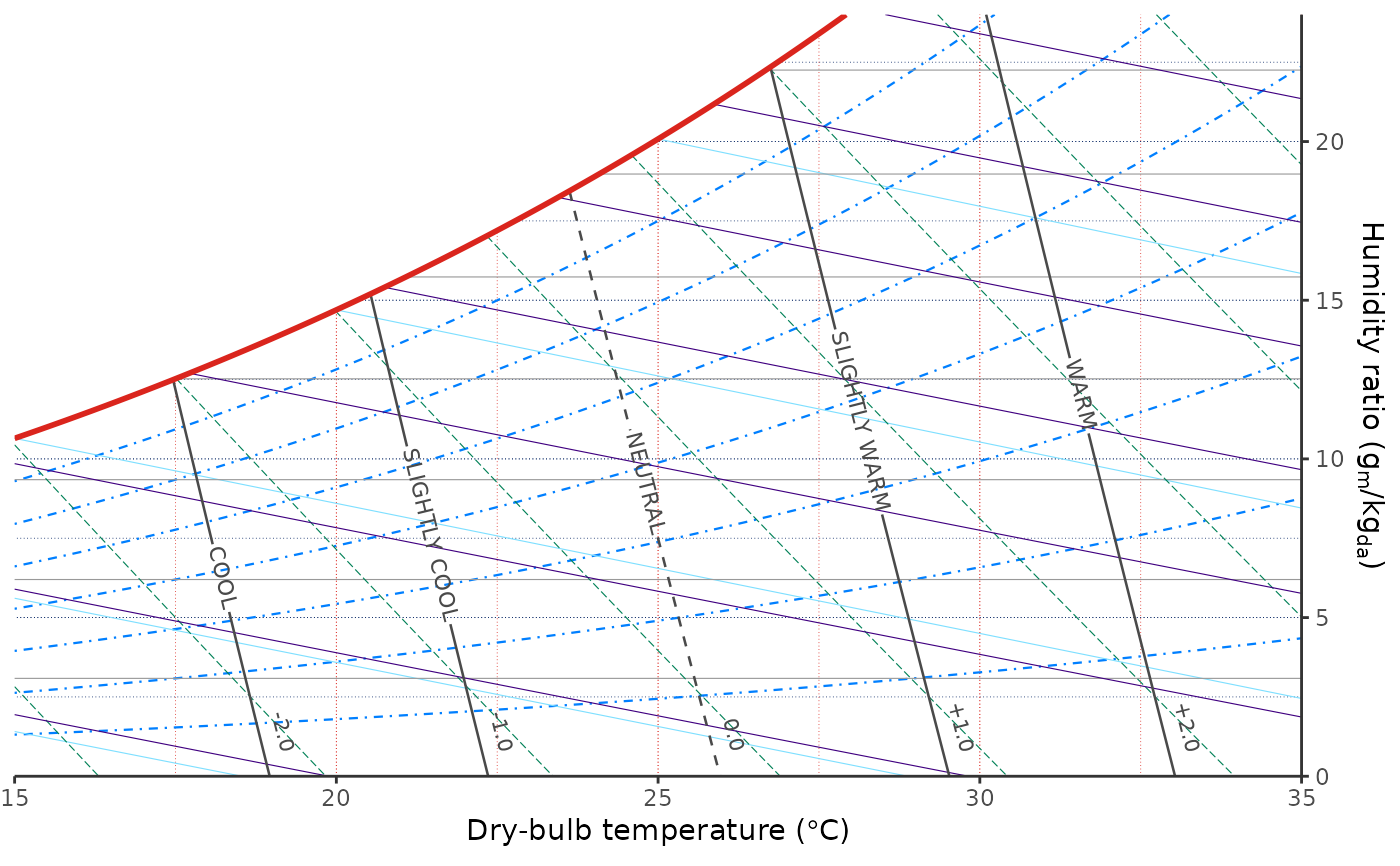
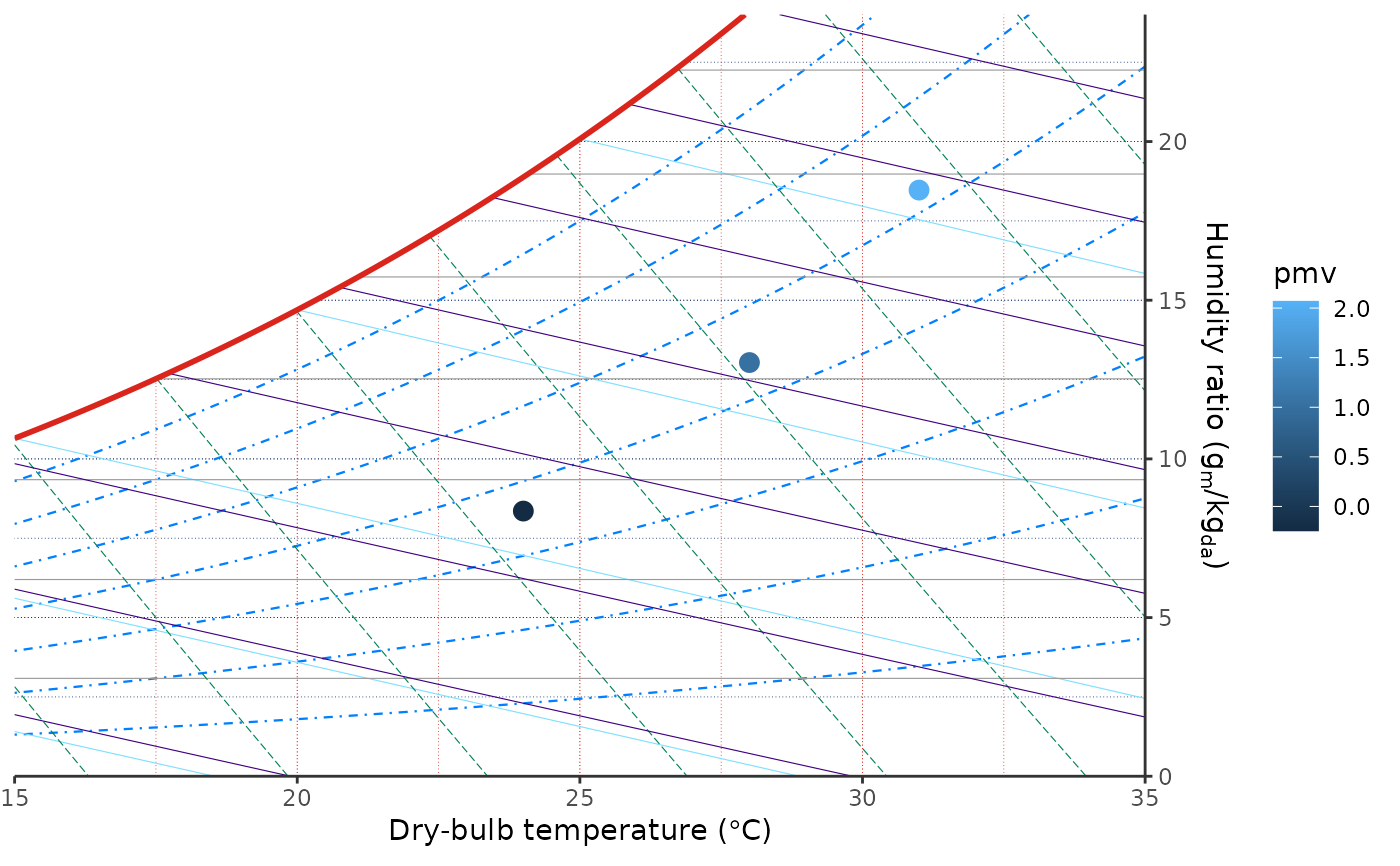
Deploying to gh-pages from @ hongyuanjia/ggpsychro@2dfbb959036aaf45d919129e0132a20ed1819e26 🚀

diff --git a/reference/geom_comfort_overlay.html b/reference/geom_comfort_overlay.html
@@ -442,12 +442,11 @@ give the geom as <code>"point"</code>.</p></li>
 <span class="r-in"><span>    <span class="fu"><a href="scale_fill_comfort_pmv.html">scale_fill_comfort_pmv</a></span><span class="op">(</span>name <span class="op">=</span> <span class="st">"PMV"</span><span class="op">)</span></span></span>
 <span class="r-plt img"><img src="geom_comfort_overlay-1.png" alt="" width="700" height="433"></span>
 <span class="r-in"><span></span></span>
-<span class="r-in"><span><span class="co"># Draw labelled PMV contour lines.</span></span></span>
+<span class="r-in"><span><span class="co"># Draw PMV contour lines.</span></span></span>
 <span class="r-in"><span><span class="fu"><a href="ggpsychro.html">ggpsychro</a></span><span class="op">(</span>tdb_lim <span class="op">=</span> <span class="fu"><a href="https://rdrr.io/r/base/c.html" class="external-link">c</a></span><span class="op">(</span><span class="fl">15</span>, <span class="fl">35</span><span class="op">)</span>, hum_lim <span class="op">=</span> <span class="fu"><a href="https://rdrr.io/r/base/c.html" class="external-link">c</a></span><span class="op">(</span><span class="fl">0</span>, <span class="fl">24</span><span class="op">)</span><span class="op">)</span> <span class="op">+</span></span></span>
 <span class="r-in"><span>    <span class="fu">geom_comfort_contour</span><span class="op">(</span></span></span>
 <span class="r-in"><span>        breaks <span class="op">=</span> <span class="fu"><a href="https://rdrr.io/r/base/c.html" class="external-link">c</a></span><span class="op">(</span><span class="op">-</span><span class="fl">1</span>, <span class="fl">0</span>, <span class="fl">1</span><span class="op">)</span>,</span></span>
-<span class="r-in"><span>        label <span class="op">=</span> <span class="cn">TRUE</span>,</span></span>
-<span class="r-in"><span>        n <span class="op">=</span> <span class="fl">80</span></span></span>
+<span class="r-in"><span>        n <span class="op">=</span> <span class="fl">50</span></span></span>
 <span class="r-in"><span>    <span class="op">)</span></span></span>
 <span class="r-plt img"><img src="geom_comfort_overlay-2.png" alt="" width="700" height="433"></span>
 <span class="r-in"><span></span></span>
@@ -460,29 +459,6 @@ give the geom as <code>"point"</code>.</p></li>
 <span class="r-in"><span>    <span class="op">)</span></span></span>
 <span class="r-plt img"><img src="geom_comfort_overlay-3.png" alt="" width="700" height="433"></span>
 <span class="r-in"><span></span></span>
-<span class="r-in"><span><span class="co"># Draw PMV curves and thermal sensation labels.</span></span></span>
-<span class="r-in"><span><span class="fu"><a href="ggpsychro.html">ggpsychro</a></span><span class="op">(</span>tdb_lim <span class="op">=</span> <span class="fu"><a href="https://rdrr.io/r/base/c.html" class="external-link">c</a></span><span class="op">(</span><span class="fl">15</span>, <span class="fl">35</span><span class="op">)</span>, hum_lim <span class="op">=</span> <span class="fu"><a href="https://rdrr.io/r/base/c.html" class="external-link">c</a></span><span class="op">(</span><span class="fl">0</span>, <span class="fl">24</span><span class="op">)</span><span class="op">)</span> <span class="op">+</span></span></span>
-<span class="r-in"><span>    <span class="fu">geom_comfort_pmv_lines</span><span class="op">(</span>levels <span class="op">=</span> <span class="fu"><a href="https://rdrr.io/r/base/seq.html" class="external-link">seq</a></span><span class="op">(</span><span class="op">-</span><span class="fl">2</span>, <span class="fl">2</span>, by <span class="op">=</span> <span class="fl">1</span><span class="op">)</span>, n <span class="op">=</span> <span class="fl">100</span><span class="op">)</span></span></span>
-<span class="r-plt img"><img src="geom_comfort_overlay-4.png" alt="" width="700" height="433"></span>
-<span class="r-in"><span></span></span>
-<span class="r-in"><span><span class="co"># Draw a PMV-based comfort standard zone.</span></span></span>
-<span class="r-in"><span><span class="fu"><a href="ggpsychro.html">ggpsychro</a></span><span class="op">(</span>tdb_lim <span class="op">=</span> <span class="fu"><a href="https://rdrr.io/r/base/c.html" class="external-link">c</a></span><span class="op">(</span><span class="fl">15</span>, <span class="fl">35</span><span class="op">)</span>, hum_lim <span class="op">=</span> <span class="fu"><a href="https://rdrr.io/r/base/c.html" class="external-link">c</a></span><span class="op">(</span><span class="fl">0</span>, <span class="fl">24</span><span class="op">)</span><span class="op">)</span> <span class="op">+</span></span></span>
-<span class="r-in"><span>    <span class="fu">geom_comfort_standard_zone</span><span class="op">(</span></span></span>
-<span class="r-in"><span>        standard <span class="op">=</span> <span class="fu"><a href="comfort_standard_ashrae55_2017.html">comfort_standard_ashrae55_2017</a></span><span class="op">(</span><span class="op">)</span>,</span></span>
-<span class="r-in"><span>        n <span class="op">=</span> <span class="fl">80</span></span></span>
-<span class="r-in"><span>    <span class="op">)</span></span></span>
-<span class="r-plt img"><img src="geom_comfort_overlay-5.png" alt="" width="700" height="433"></span>
-<span class="r-in"><span></span></span>
-<span class="r-in"><span><span class="co"># Draw heat-index categories on hot conditions.</span></span></span>
-<span class="r-in"><span><span class="fu"><a href="ggpsychro.html">ggpsychro</a></span><span class="op">(</span>tdb_lim <span class="op">=</span> <span class="fu"><a href="https://rdrr.io/r/base/c.html" class="external-link">c</a></span><span class="op">(</span><span class="fl">25</span>, <span class="fl">45</span><span class="op">)</span>, hum_lim <span class="op">=</span> <span class="fu"><a href="https://rdrr.io/r/base/c.html" class="external-link">c</a></span><span class="op">(</span><span class="fl">0</span>, <span class="fl">32</span><span class="op">)</span><span class="op">)</span> <span class="op">+</span></span></span>
-<span class="r-in"><span>    <span class="fu">geom_comfort_heat_index</span><span class="op">(</span>n <span class="op">=</span> <span class="fu"><a href="https://rdrr.io/r/base/c.html" class="external-link">c</a></span><span class="op">(</span><span class="fl">55</span>, <span class="fl">35</span><span class="op">)</span>, show_labels <span class="op">=</span> <span class="cn">FALSE</span><span class="op">)</span></span></span>
-<span class="r-plt img"><img src="geom_comfort_overlay-6.png" alt="" width="700" height="433"></span>
-<span class="r-in"><span></span></span>
-<span class="r-in"><span><span class="co"># Draw Givoni bioclimatic strategy zones.</span></span></span>
-<span class="r-in"><span><span class="fu"><a href="ggpsychro.html">ggpsychro</a></span><span class="op">(</span>tdb_lim <span class="op">=</span> <span class="fu"><a href="https://rdrr.io/r/base/c.html" class="external-link">c</a></span><span class="op">(</span><span class="fl">5</span>, <span class="fl">45</span><span class="op">)</span>, hum_lim <span class="op">=</span> <span class="fu"><a href="https://rdrr.io/r/base/c.html" class="external-link">c</a></span><span class="op">(</span><span class="fl">0</span>, <span class="fl">30</span><span class="op">)</span><span class="op">)</span> <span class="op">+</span></span></span>
-<span class="r-in"><span>    <span class="fu">geom_comfort_givoni</span><span class="op">(</span>show_labels <span class="op">=</span> <span class="cn">FALSE</span><span class="op">)</span></span></span>
-<span class="r-plt img"><img src="geom_comfort_overlay-7.png" alt="" width="700" height="433"></span>
-<span class="r-in"><span></span></span>
 <span class="r-in"><span><span class="co"># Evaluate PMV at supplied state points.</span></span></span>
 <span class="r-in"><span><span class="va">states</span> <span class="op">&lt;-</span> <span class="fu"><a href="https://rdrr.io/r/base/data.frame.html" class="external-link">data.frame</a></span><span class="op">(</span></span></span>
 <span class="r-in"><span>    tdb <span class="op">=</span> <span class="fu"><a href="https://rdrr.io/r/base/c.html" class="external-link">c</a></span><span class="op">(</span><span class="fl">24</span>, <span class="fl">28</span>, <span class="fl">31</span><span class="op">)</span>,</span></span>
@@ -493,7 +469,7 @@ give the geom as <code>"point"</code>.</p></li>
 <span class="r-in"><span>        <span class="fu">aes</span><span class="op">(</span>tdb <span class="op">=</span> <span class="va">tdb</span>, relhum <span class="op">=</span> <span class="va">relhum</span>, colour <span class="op">=</span> <span class="fu">after_stat</span><span class="op">(</span><span class="va">pmv</span><span class="op">)</span><span class="op">)</span>,</span></span>
 <span class="r-in"><span>        size <span class="op">=</span> <span class="fl">3</span></span></span>
 <span class="r-in"><span>    <span class="op">)</span></span></span>
-<span class="r-plt img"><img src="geom_comfort_overlay-8.png" alt="" width="700" height="433"></span>
+<span class="r-plt img"><img src="geom_comfort_overlay-4.png" alt="" width="700" height="433"></span>
 <span class="r-in"><span></span></span>
 </code></pre></div>
     </div>

diff --git a/reference/comfort_standard_ashrae55_2017.html b/reference/comfort_standard_ashrae55_2017.html
@@ -111,22 +111,6 @@ mean outdoor temperature and produce operative-temperature bands.</p>
 <span class="r-out co"><span class="r-pr">#&gt;</span> attr(,"class")</span>
 <span class="r-out co"><span class="r-pr">#&gt;</span> [1] "PsyComfortStandard" "list"              </span>
 <span class="r-in"><span></span></span>
-<span class="r-in"><span><span class="co"># Draw the ASHRAE 55 comfort zone.</span></span></span>
-<span class="r-in"><span><span class="fu"><a href="ggpsychro.html">ggpsychro</a></span><span class="op">(</span>tdb_lim <span class="op">=</span> <span class="fu"><a href="https://rdrr.io/r/base/c.html" class="external-link">c</a></span><span class="op">(</span><span class="fl">15</span>, <span class="fl">35</span><span class="op">)</span>, hum_lim <span class="op">=</span> <span class="fu"><a href="https://rdrr.io/r/base/c.html" class="external-link">c</a></span><span class="op">(</span><span class="fl">0</span>, <span class="fl">24</span><span class="op">)</span><span class="op">)</span> <span class="op">+</span></span></span>
-<span class="r-in"><span>    <span class="fu"><a href="geom_comfort_overlay.html">geom_comfort_standard_zone</a></span><span class="op">(</span></span></span>
-<span class="r-in"><span>        standard <span class="op">=</span> <span class="fu">comfort_standard_ashrae55_2017</span><span class="op">(</span><span class="op">)</span>,</span></span>
-<span class="r-in"><span>        n <span class="op">=</span> <span class="fl">80</span></span></span>
-<span class="r-in"><span>    <span class="op">)</span></span></span>
-<span class="r-plt img"><img src="comfort_standard_ashrae55_2017-1.png" alt="" width="700" height="433"></span>
-<span class="r-in"><span></span></span>
-<span class="r-in"><span><span class="co"># Draw the EN 15251 comfort bands.</span></span></span>
-<span class="r-in"><span><span class="fu"><a href="ggpsychro.html">ggpsychro</a></span><span class="op">(</span>tdb_lim <span class="op">=</span> <span class="fu"><a href="https://rdrr.io/r/base/c.html" class="external-link">c</a></span><span class="op">(</span><span class="fl">15</span>, <span class="fl">35</span><span class="op">)</span>, hum_lim <span class="op">=</span> <span class="fu"><a href="https://rdrr.io/r/base/c.html" class="external-link">c</a></span><span class="op">(</span><span class="fl">0</span>, <span class="fl">24</span><span class="op">)</span><span class="op">)</span> <span class="op">+</span></span></span>
-<span class="r-in"><span>    <span class="fu"><a href="geom_comfort_overlay.html">geom_comfort_standard_zone</a></span><span class="op">(</span></span></span>
-<span class="r-in"><span>        standard <span class="op">=</span> <span class="fu">comfort_standard_en15251_2007</span><span class="op">(</span><span class="op">)</span>,</span></span>
-<span class="r-in"><span>        n <span class="op">=</span> <span class="fl">80</span></span></span>
-<span class="r-in"><span>    <span class="op">)</span></span></span>
-<span class="r-plt img"><img src="comfort_standard_ashrae55_2017-2.png" alt="" width="700" height="433"></span>
-<span class="r-in"><span></span></span>
 </code></pre></div>
     </div>
   </main><aside class="col-md-3"><nav id="toc" aria-label="Table of contents"><h2>On this page</h2>

diff --git a/reference/geom_comfort_overlay.md b/reference/geom_comfort_overlay.md
@@ -419,12 +419,11 @@ ggpsychro(tdb_lim = c(15, 35), hum_lim = c(0, 24)) +
     scale_fill_comfort_pmv(name = "PMV")
 
 
-# Draw labelled PMV contour lines.
+# Draw PMV contour lines.
 ggpsychro(tdb_lim = c(15, 35), hum_lim = c(0, 24)) +
     geom_comfort_contour(
         breaks = c(-1, 0, 1),
-        label = TRUE,
-        n = 80
+        n = 50
     )
 
 
@@ -435,29 +434,6 @@ ggpsychro(tdb_lim = c(15, 35), hum_lim = c(0, 24)) +
         n = c(45, 30),
         alpha = 0.3
     )
-
-
-# Draw PMV curves and thermal sensation labels.
-ggpsychro(tdb_lim = c(15, 35), hum_lim = c(0, 24)) +
-    geom_comfort_pmv_lines(levels = seq(-2, 2, by = 1), n = 100)
-
-
-# Draw a PMV-based comfort standard zone.
-ggpsychro(tdb_lim = c(15, 35), hum_lim = c(0, 24)) +
-    geom_comfort_standard_zone(
-        standard = comfort_standard_ashrae55_2017(),
-        n = 80
-    )
-
-
-# Draw heat-index categories on hot conditions.
-ggpsychro(tdb_lim = c(25, 45), hum_lim = c(0, 32)) +
-    geom_comfort_heat_index(n = c(55, 35), show_labels = FALSE)
-
-
-# Draw Givoni bioclimatic strategy zones.
-ggpsychro(tdb_lim = c(5, 45), hum_lim = c(0, 30)) +
-    geom_comfort_givoni(show_labels = FALSE)
 
 
 # Evaluate PMV at supplied state points.

diff --git a/reference/comfort_standard_ashrae55_2017.md b/reference/comfort_standard_ashrae55_2017.md
@@ -64,20 +64,4 @@ comfort_standard_en15251_2007()
 #> 
 #> attr(,"class")
 #> [1] "PsyComfortStandard" "list"              
-
-# Draw the ASHRAE 55 comfort zone.
-ggpsychro(tdb_lim = c(15, 35), hum_lim = c(0, 24)) +
-    geom_comfort_standard_zone(
-        standard = comfort_standard_ashrae55_2017(),
-        n = 80
-    )
-
-
-# Draw the EN 15251 comfort bands.
-ggpsychro(tdb_lim = c(15, 35), hum_lim = c(0, 24)) +
-    geom_comfort_standard_zone(
-        standard = comfort_standard_en15251_2007(),
-        n = 80
-    )
-
 ```